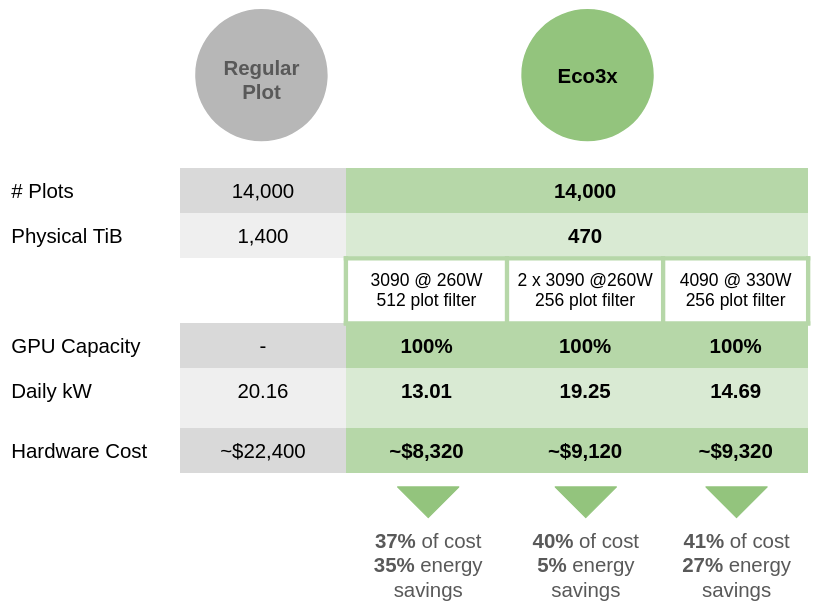
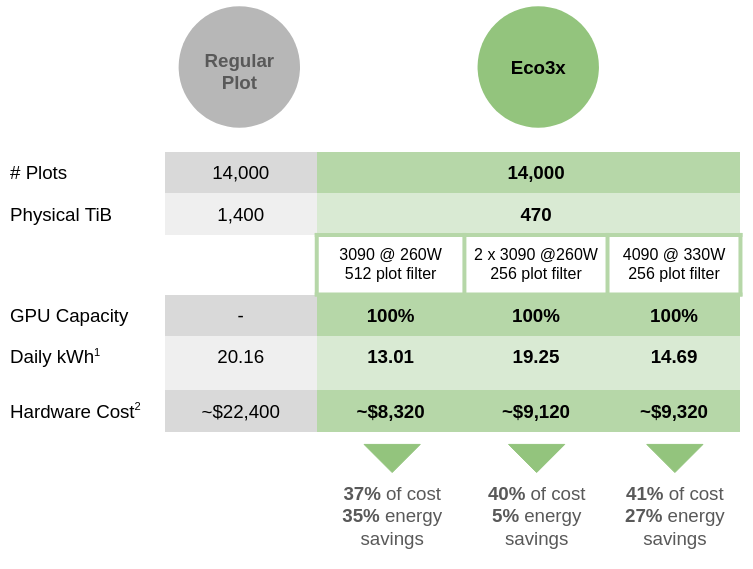
Update readme (#9)

diff --git a/README.md b/README.md
@@ -19,7 +19,7 @@ Offering Eco3x for enhanced energy efficiency and Pro4x for maximum plot size re
 
 <sup>1: capacities with current chia plot filter of 512. For a plot filter of 256 halve these values.</sup>
 <sup>2: at a plot filter of 256 (expected June 2024), currently only the 4090 has less W/eTB than standard plots on pro4x.</sup>
-<sup>3: **No SSD required.** While you can use an SSD as an intermediary drive under most cases it will not improve plot time.</sup>
+<sup>3: **SSD not required.** While you can use an SSD as an intermediary drive under most cases it will not improve plot time.</sup>
 
 ## The Eco3x Advantage
 
@@ -29,7 +29,8 @@ Eco3x compression offers an energy-efficient solution for managing chia farms, e
   <img src="images/eco3x-advantage.png" />
 </p>
 
-<sub>1: The "Hardware Cost per ePiB" represents the actual costs of purchasing the necessary hardware for disks and GPUs. This is based on an estimated $16 per installed TB and $800 for a used 3090 GPU</sub>
+<sub>1: Using 0.6W per installed TB</sub>
+<sub>2: The "Hardware Cost per ePiB" represents the actual costs of purchasing the necessary hardware for disks and GPUs. This is based on an estimated $16 per installed TB and $800 for a used 3090 GPU</sub>
 
 ## The Pro4x Advantage
 
@@ -38,7 +39,8 @@ Pro4x compression significantly reduces hard drive needs for your plots to less 
 <p align="center" alt="Table comparing pro4x advantages to regular plots">
   <img src="images/pro4x-advantage.png" />
 </p>
-<sub>1: The "Hardware Cost per ePiB" represents the actual costs of purchasing the necessary hardware for disks and GPUs. This is based on an estimated $16 per installed TB and $1800 for a new 4090 GPU</sub>
+<sub>1: Using 0.6W per installed TB</sub>
+<sub>2: The "Hardware Cost per ePiB" represents the actual costs of purchasing the necessary hardware for disks and GPUs. This is based on an estimated $16 per installed TB and $1800 for a new 4090 GPU</sub>
 
 ## Get the Most Out of Your GPU with Eco3x and Pro4x
 
